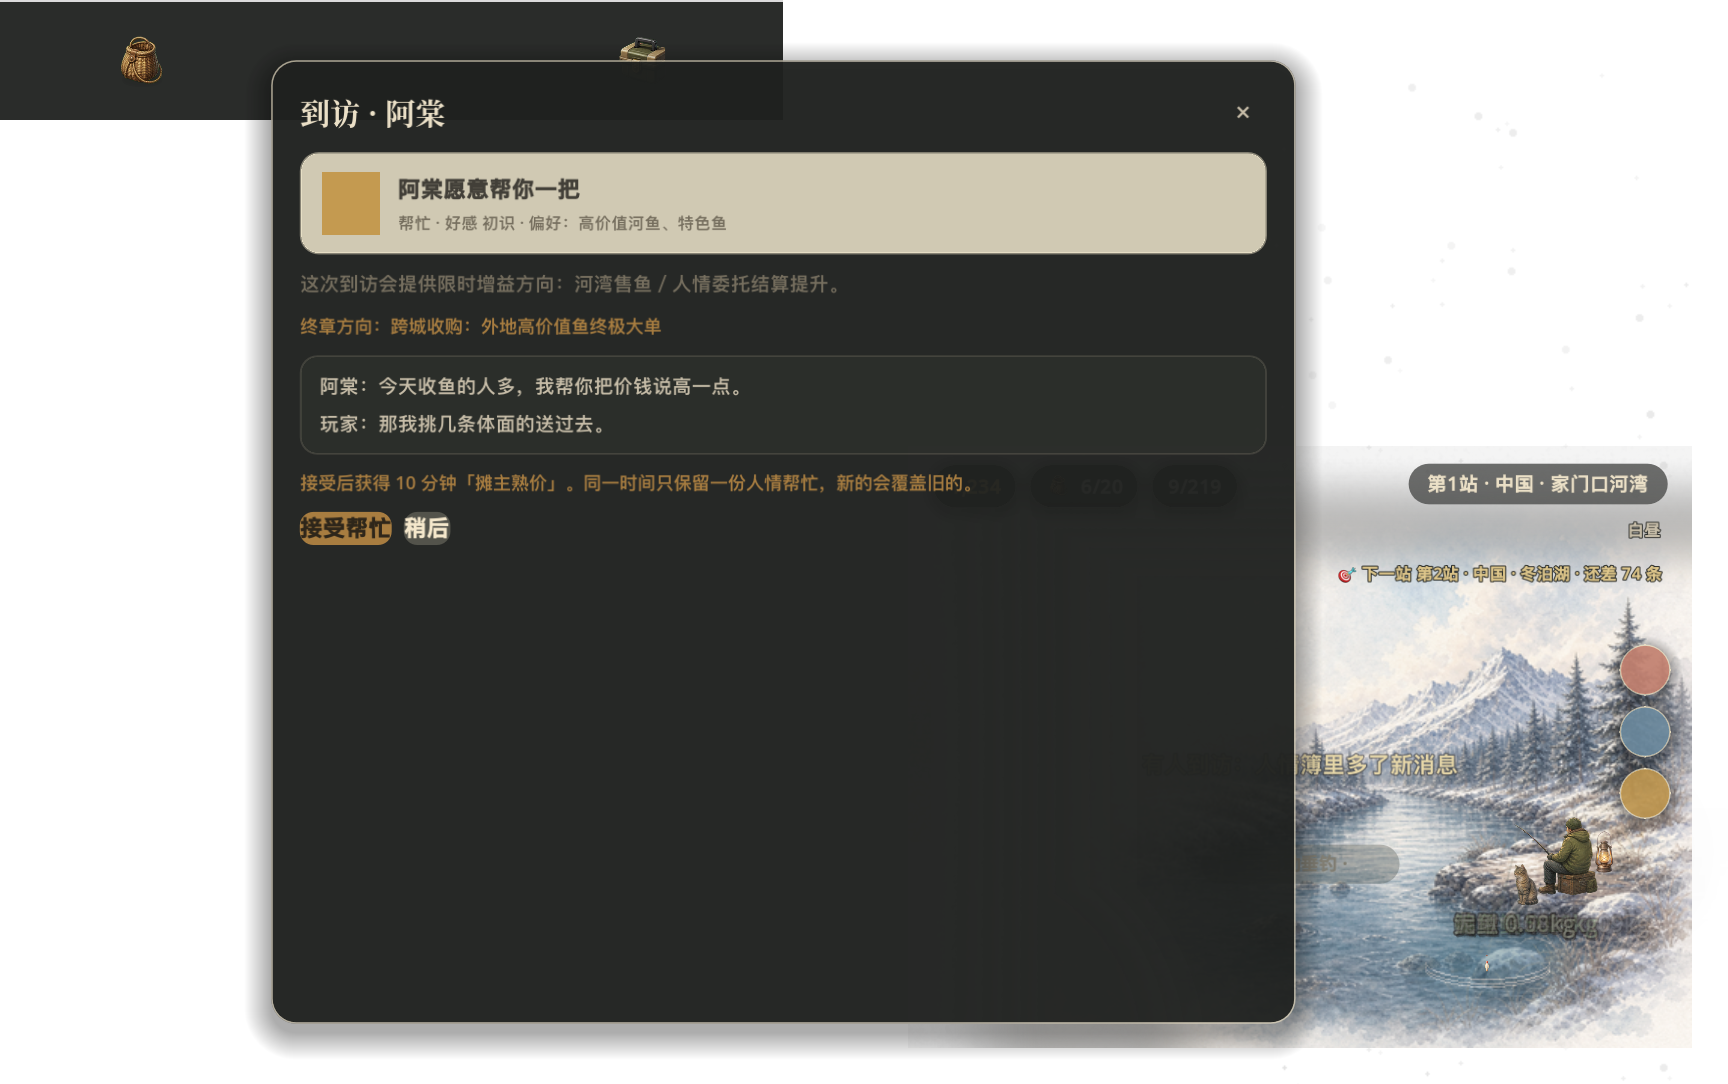
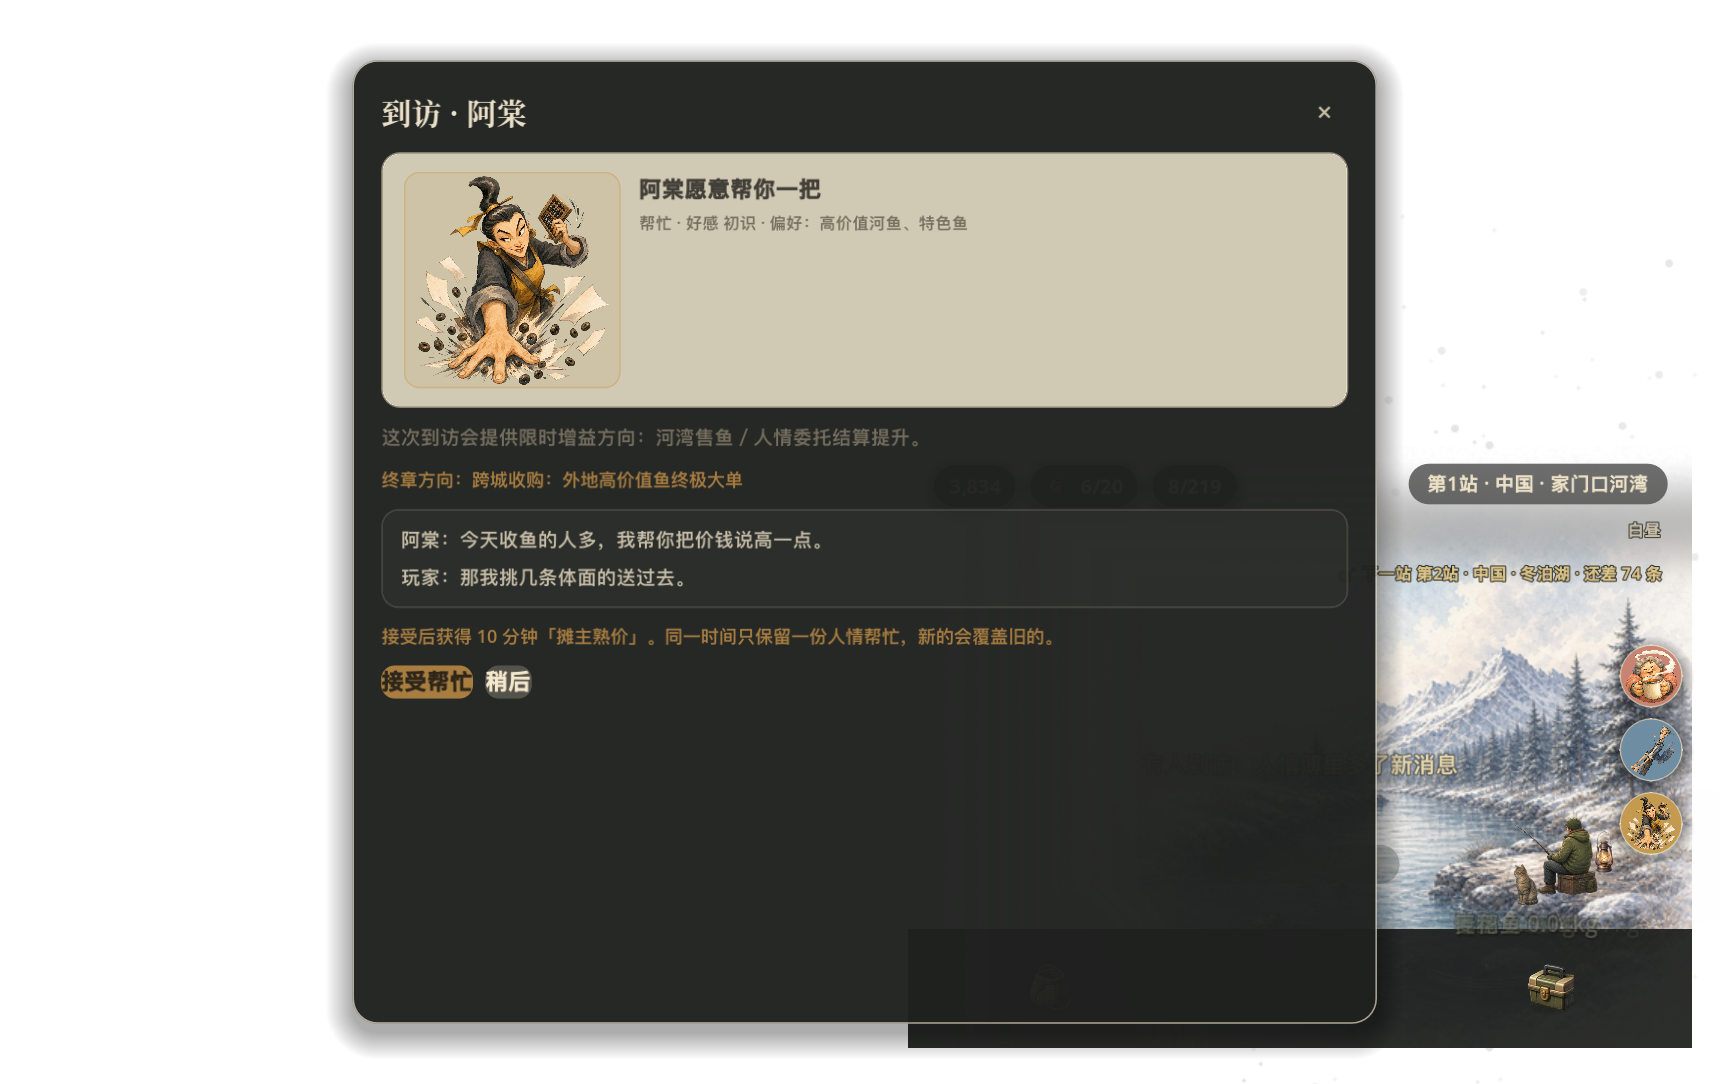
同步河湾人物头像视觉与文档

Changed region(s): [[0.0, 0.0, 1.0, 0.9742], [0.9062, 0.5784, 1.0, 0.822]]

diff --git a/BACKLOG.md b/BACKLOG.md
@@ -31,6 +31,7 @@
 
 ## ✅ 决策日志(关键拍板,最新在上 —— 防止反复纠结已否决的方向)
 
+- **2026-07-20** 河湾五位 NPC 水彩人物图正式接入运行时，采用 Owner 确认的分层方案 B：右侧低频到访入口使用带主题色描边的圆形头像，人情簿使用动作缩略图，单人到访面板使用完整透明立绘；缺图继续回退主题色占位。**为什么**：小尺寸入口需要快速识别，阅读与交付面板又要保留五人各自的动作轮廓；单一圆形裁切会浪费立绘表现力，所有位置展示全图则会挤压文字与鱼篓操作区。
 - **2026-07-16** 修鱼篓卖鱼两处问题(分支 `fix/sell-sort-bugs`):①**「按品阶批量卖出」**(卖掉 XX 及以下一键清篓)交付时按钮计数没排除订单鱼、且 `order_matches` 不检查 `done`——重量类订单(收 ≥Wkg)一旦所有鱼都达标,批量卖出显示有货实则 0 条可卖,且交付订单后整篓鱼仍被永久拦截;改为 `done` 后 `order_matches` 返回 false 释放全部鱼。②**鱼卡外框改为始终按品阶着色**:原逻辑"有变体就用变体色",导致带斑斓变体的施氏鲟(tier4 橙)画成蓝边,品阶排序后看着像混在橙鱼里错位;变体身份已由 ◆ 前缀 + 名字品阶色表达,边框统一走品阶色后排序视觉成组。自测:真实存档经 headless Godot 验证品阶/价值排序单调、done 后 45/45 鱼解除拦截、可卖数恢复;validate_game.gd 0 失败。**为什么**:前者是会让玩家"卖不掉鱼"的严重交互 BUG(订单完成态反而锁死整篓),后者是数据正确但边框编码维度错配造成的视觉误判,两者都不该留到发布。
 - **2026-07-16** Owner 确认河湾好感逐级事件规则：普通委托只发金币，只有成功送礼提升好感；初识到旧交每级优先投放一条一次性人物事件，跨级后从最低未读事件依次补看；初识池只有闲谈，点头之交开放委托，靠得住开放招牌 Buff，至交优先一次性终章；人物事件读完后才进入当前等级允许的轮换池。v24 为每位 NPC 保存 `story_seen`，共接入 30 条阶段事件及测试工具。**为什么**：把人物关系推进从经济任务中剥离，并确保挂机或调试造成的跨级不会跳过人物成长内容。
 - **2026-07-16** Owner 确认河湾五条终章均为**一次性**，不解锁重复委托：林阿姨与阿棠是收购类，核验成功后消耗鱼；周叔、小满、马会长是纪录类，只登记且保留渔获，锁定鱼也可登记。终章分别永久写入家书纪念、老钓友船牌、跨城收购名片、高级标记许可、旅途联系人名册；船牌与标记许可现阶段只保存／展示，实际作用留待三钓点联动接入。存档升至 v23，v21/v22 已完成终章的档自动补发标记。**为什么**：终章应是唯一的人物关系收束，避免变成重复任务机；长期价值通过永久关系凭证和后续钓点联动兑现。
@@ -38,7 +39,7 @@
 - **2026-07-13** Windows 上“点收下/卖鱼后关闭/普通点击/最小化恢复后窗口打不开”统一定性为**透明覆盖窗 Region 生命周期故障**，不是各按钮分别触发最小化：`canvas_items + expand` 后挂件坐标仍是逻辑画布单位，却被直接传给 Win32 `SetWindowRgn` 的原生客户区像素；Windows 同时不绘制 Region 外内容，故进程仍在但画面被完整裁空。修复拍板：所有 Region 写入收敛到主节点单一出口，经 `get_viewport().get_final_transform()` 转换、向外取整并留 4px 恢复抖动余量；面板态清除自定义 Region；首次弹窗前等待窗口初始化；焦点恢复/尺寸/DPI 变化后延迟重算；退化 transform/零面积多边形拒绝写入并重试；背景拖动设 6px 物理阈值且面板打开时禁拖。卖鱼跨累计 300 金币时另有旧导航 hover lambda 捕获已释放节点，也一并改为带有效性检查的回调并重排新导航。**为什么**：这些触发器都汇入同一个错误 Region 出口，逐按钮打补丁无法覆盖缩放、显示器和系统恢复路径；窗口状态机 + 原生几何回归才是一劳永逸的边界。
 - **2026-07-10** huchao 提出并确认**前三钓点联动系统设计**（详见 `docs/three-spot-linkage-design-huchao.md`）：河湾人情簿、冬泊湖水文台、雪线溪谷标记放流簿各自先提供本地效率收益，Lv4 跨图协作、Lv5 分别给经济与目标组织 / 稀有时机 / 巨物纪录三个全局维度。**为什么**：让旧钓点拥有独立且可感知的回访价值，同时用软联动而非硬门槛串起背包客旅程；设计尚未排期实现。
 - **2026-07-09** 底部系统改为**阶梯式揭露**:新进度开局只显示设置;累计 3 条鱼开放鱼篓并提示可贩卖;累计卖鱼 300 金币开放装备;装备/背包等升级消费累计 10K 开放任务;默认钓点图鉴完成一半开放图鉴;满足第二钓点解锁条件开放地图/钓点;钓到极品鱼开放鱼缸。测试模式新增"功能开放"折叠面板,可直接开关各系统入口;存档 v20 记录开放状态与装备消费累计。**为什么**:降低开局信息噪声,让每个系统在玩家刚产生对应需求时出现,同时保留测试态快速验证路径。
-- **2026-07-10** 河湾人情簿先落**基础骨架 + 到访送礼 + 接受 Buff + 委托交付 + 终章大单 + 调试面板**：五位 NPC 的独立七级好感、v21 存档、人情底栏入口与总览、挂机到访队列、右侧最多 5 个纯色圆入口、单条到访面板、面板内鱼篓送礼、偏好鱼加好感、不合口味拒收且错失本次机会、10 分钟单槽限时 Buff 领取与生效、偏好鱼委托交付与金币/好感奖励、至交后的跨地点终章大单与完成标记；测试模式左侧新增“人情模块”按钮，可召唤指定 NPC/事件、打开到访或送礼面板、mock 送礼/终章鱼、调整好感和终章状态。**为什么**：先稳定数据、迁移、低频挂机入口、送礼代价、临时收益、普通奖励和终章验证工具，后续再扩写文本、美术头像和跨图长期收益。
+- **2026-07-10** 河湾人情簿先落**基础骨架 + 到访送礼 + 接受 Buff + 委托交付 + 终章大单 + 调试面板**：五位 NPC 的独立七级好感、v21 存档、人情底栏入口与总览、挂机到访队列、右侧最多 5 个到访入口（当时为纯色占位，2026-07-20 已换专属头像）、单条到访面板、面板内鱼篓送礼、偏好鱼加好感、不合口味拒收且错失本次机会、10 分钟单槽限时 Buff 领取与生效、偏好鱼委托交付与金币/好感奖励、至交后的跨地点终章大单与完成标记；测试模式左侧新增“人情模块”按钮，可召唤指定 NPC/事件、打开到访或送礼面板、mock 送礼/终章鱼、调整好感和终章状态。**为什么**：先稳定数据、迁移、低频挂机入口、送礼代价、临时收益、普通奖励和终章验证工具，后续再扩写文本、美术表现和跨图长期收益。
 - **2026-07-09** 装备/金币改为**浮点大数 + 西方短单位**:金币、累计收入、装备成本、鱼竿成本、测试加钱等经济量不再受 64 位整数约束,统一用 double 浮点大数并在极端值钳制到 `1e300`;UI 不再用中文"万/亿",10K 起按 `K/M/B/T/Qa/Qi/Sx/Sp...` 3 位有效数字显示,单位表用尽后才退科学计数。**为什么**:装备系统支持长期升级后数值跨度会快速放大,裸整数会撑爆按钮/HUD,整数溢出会让升级价格或金币变成负数;idle 游戏玩家也更熟悉 K/M/B/T/Qa 这套递进。
 - **2026-07-09** 属性装备价格改为**顺序驱动**:装备定义只保留名称/图标/属性,解锁顺序由独立数组控制;后一件解锁价就是该装备 Lv.1 购买价,先取前一件约 Lv.22 的单次购买价并规整(如鱼线 Lv.22 单次约 2,701→绕线轮 Lv.1 价 2,500),之后 Lv.2 起按自身指数曲线递增;属性效果仍按等级线性增长,Lv.2≈Lv.1 两倍。**为什么**:把"这是什么装备"和"它在第几阶段出现、该多贵"解耦,后续调换鱼线/绕线轮/浮漂等顺序时不再改硬编码 match,数值节奏也能跟着顺序稳定迁移。
 - **2026-07-08** 用户问"有没有免费音乐版权库"→ 全面补齐**音频反馈层**(分支 `feat/audio-feedback`)。审计发现音效系统本已成熟(9 SFX + 8 层生态×昼夜环境床),但**零 BGM**、上鱼音只有 2 档、9 个高光事件全哑。落地:①**上鱼四档阶梯** common/good/rare/epic(此前 ×12 的七彩和 ★★ 普通鱼同一个音),门槛写进 `_catch_sfx()`,单调性由生成器 `verify_ladder()` + `validate_game.gd::_check_audio()` 双重断言;②**9 个哑点接线**:成就(42 项此前全无声)/图鉴首捕/破纪录/巨物赛夺金/专注奖励/宠物偷鱼/钓点解锁/7 种随机事件/咬钩→上鱼 0.9s 张力循环;③**BGM 系统**:昼夜两曲 4s 交叉淡入淡出 + 独立开关与音量。**为什么**:用户此前说游戏"不好玩"——219 鱼 × 4 变体的收集轴在听觉上只有两档,最强正反馈(七彩/传说)和日常事件无差别,这是可听见的"无感"。**许可口径:全部 CC0/公共领域,零署名负担**(拒了音色更好的 CC-BY 源若干),理由是不让 Credits 界面挡在发布路径上;Pixabay 自有许可也没用上。**为什么不叠更响**:"史诗"做成更长(1.80s vs 0.44s)+ 有旋律,而非更吵——峰值仍守 0.32,起音靠"大鱼翻腾"实录托底。8 个里程碑音为**程序合成**(Karplus-Strong),既零版权也让"安静克制"可调参;亮度(频谱质心)设硬预算,超标即构建失败。

diff --git a/docs/three-spot-linkage-design-huchao.md b/docs/three-spot-linkage-design-huchao.md
@@ -32,7 +32,7 @@
 
 #### 到访事件与挂机节奏
 
-- 右侧 HUD 预留最多 **5 个到访位**。每位 NPC 对应一个纯色圆形头像（正式立绘以后再替换）；有来意时占用自己的一个位置，点击后才打开该次到访的对话、剧情或处理面板。
+- 右侧 HUD 预留最多 **5 个到访位**。每位 NPC 使用带主题色描边的圆形专属头像；有来意时占用自己的一个位置，点击后才打开该次到访的对话、剧情或处理面板。人情簿使用动作缩略图，单人到访面板使用完整透明立绘，缺图时回退人物主题色占位。
 - 到访是挂机期间自然产生的低频事件；同一 NPC 不会重复占位。若该 NPC 已在队列里，新的来意只更新该头像的状态（例如由“想聊聊”变为“有礼物”或“委托完成”），不挤掉其他人。
 - 底部菜单增加“人情”入口（首版可用空白 icon）。人情簿用于总览五人的好感、偏好、已知提示、当前委托与终章进度；**送礼按钮只出现在该 NPC 正在到访的面板中**，平时在鱼篓和人情簿均不可送礼。
 - 每位 NPC 的到访／礼物冷却暂定为 **3 小时**。离线超过冷却后，每人至多准备一轮未领取的礼物或来意，不多层累积；一次较长挂机回来可以看到五人各自的一轮反馈，但不会形成待办债务。
@@ -142,8 +142,8 @@
 
 - 本设计是未来地图系统提案，不改变当前路线图的“比赛材料与演示观感”焦点。
 - 雪线溪谷当前仍缺正式背景图；在该图视觉资产补齐前，不应将它作为玩家必须回访的强引导。
-- 已落地的第一阶段：v21 存档保存五位 NPC 的独立好感、到访队列、下一次到访时间、排程序号、当前人情 Buff 与终章完成状态；底部菜单有“人情”入口；右侧 HUD 显示最多 5 个纯色圆到访入口；点击可打开单条到访面板，承载提示、委托、Buff 或终章说明；到访面板内展示鱼篓，偏好鱼正常高亮，不合口味鱼灰化但仍可点击并触发拒收；Buff 到访可通过几句对话领取 10 分钟单槽限时增益；普通委托可交付一条偏好鱼，成功后消耗鱼并只发金币，不合格只拒收且委托保留；只有成功送礼提升好感；至交后优先出现跨地点终章大单。
+- 已落地的第一阶段：v21 存档保存五位 NPC 的独立好感、到访队列、下一次到访时间、排程序号、当前人情 Buff 与终章完成状态；底部菜单有“人情”入口；右侧 HUD 显示最多 5 个专属圆形头像入口，人情簿与到访面板分别显示人物缩略图和透明立绘；点击可打开单条到访面板，承载提示、委托、Buff 或终章说明；到访面板内展示鱼篓，偏好鱼正常高亮，不合口味鱼灰化但仍可点击并触发拒收；Buff 到访可通过几句对话领取 10 分钟单槽限时增益；普通委托可交付一条偏好鱼，成功后消耗鱼并只发金币，不合格只拒收且委托保留；只有成功送礼提升好感；至交后优先出现跨地点终章大单。
 - 测试模式已补“人情模块”调试面板：可召唤指定 NPC 的近况 / 闲谈 / 委托 / Buff / 终章事件，调整好感与人物事件已读进度，并 mock 偏好鱼与终章鱼。无头回归覆盖逐级事件池、跨级补读、送礼、Buff、委托与终章。
 - v23 补齐一次性终章的永久奖励：林阿姨／阿棠为收购类并消耗鱼，周叔／小满／马会长为纪录类且保留鱼；完成后分别保存家书纪念、老钓友船牌、跨城收购名片、高级标记许可、旅途联系人名册。船牌与许可的玩法效果留待水文台／放流簿阶段接入。
 - v24 接入初识到旧交共 30 条一次性人物事件；每人保存最高连续已读等级，跨级后仍按顺序补看。事件读完后，初识只轮换闲谈、点头之交开放委托、靠得住开放 Buff；至交终章优先于未读近况。
-- 下一阶段仍需单独设计和接入：NPC 文本扩写、正式头像/立绘，以及普通人情委托与每日订单在 UI 和数值上的复用边界。
+- 下一阶段仍需单独设计和接入：NPC 文本扩写，以及普通人情委托与每日订单在 UI 和数值上的复用边界。

diff --git a/ROADMAP.md b/ROADMAP.md
@@ -52,7 +52,7 @@
 - [x] **角色属性二级映射接入结算**(旧装备仍是主轴;属性软上限修正周期/品阶/星级/变体/双钩/体型,开发面板同步展示最终指标)✅ 2026-07-08
 - [x] **装备/金币大数化**(经济量改 double 浮点大数,极端值钳制到 `1e300`;装备页/HUD 改 `K/M/B/T/Qa/Qi...` 短格式,不再用中文万/亿)✅ 2026-07-09
 - [x] **底部系统渐进开放**(开局只显示设置;3 条鱼开放鱼篓;卖鱼 300 开装备;装备消费 10K 开任务;默认钓点半图鉴开图鉴;第二钓点条件开地图;极品鱼开鱼缸;测试台可手动开关功能;存档 **v20**)✅ 2026-07-09
-- [x] **河湾人情簿（分阶段首版）**：五位 NPC 配置、独立七级好感存档、人情入口、总览、挂机到访队列、右侧纯色圆入口、到访送礼、10 分钟单槽 Buff、偏好鱼委托、跨地点终章大单与调试面板均已接入（v21）；v22 改为每位 NPC 独立 3 小时排程；v23 补齐五条一次性终章永久标记；v24 加入初识到旧交共 30 条一次性人物事件、跨级顺序补读与分级事件池，普通委托改为只发金币、仅成功送礼提升好感；后续继续扩写人物文本／头像与三钓点联动效果。
+- [x] **河湾人情簿（分阶段首版）**：五位 NPC 配置、独立七级好感存档、人情入口、总览、挂机到访队列、专属水彩头像／人情簿缩略图／到访透明立绘、到访送礼、10 分钟单槽 Buff、偏好鱼委托、跨地点终章大单与调试面板均已接入（v21）；v22 改为每位 NPC 独立 3 小时排程；v23 补齐五条一次性终章永久标记；v24 加入初识到旧交共 30 条一次性人物事件、跨级顺序补读与分级事件池，普通委托改为只发金币、仅成功送礼提升好感；后续继续扩写人物文本与三钓点联动效果。
 - [ ] **219 鱼美术补齐**(现 99 条有专属图标 → 缺 120;缺图自动回退品阶通用图标不崩)
 - [ ] **7 个新钓点背景图**(数据已配,缺干净底图;**其中雪线溪谷 mountain_stream / 下山进城 urban_pond 在退款窗口内可达,列入上架 DoD 必须有图**)
 - [x] **README 文案同步真实数字**(鱼 106→219、存档 v11→v12;钓点守 3 不虚报)✅ 2026-06-23

diff --git a/README.md b/README.md
@@ -89,6 +89,8 @@ godot --headless -s tools/balance_probe.gd
 左侧开发入口可直接打开属性面板、功能管理与人情模块；属性面板可编辑金币（翻倍/减半）、装备来源层与宠物状态；测试台可强制昼夜时段、钓鱼提速（×3/×10/即时）、改金币、+1/拉满装备与背包、绕线轮升降/设级、给指定鱼（鱼种×星级×变体）、
 样本包/清空鱼篓、解锁全部钓点/点亮全图鉴、召唤鱼贩/重置订单/充能专注、立即触发随机事件；人情模块可召唤指定 NPC 的闲谈/委托/Buff/终章事件、打开人情簿或到访面板、mock 偏好鱼与终章鱼、调整好感等级、重置或完成终章。
 
+河湾五位 NPC 已使用专属水彩人物图：右侧到访栏显示主题色圆形头像，人情簿显示动作缩略图，到访面板显示完整透明立绘；资源缺失时安全回退到人物主题色占位，不影响交互。
+
 **仅本会话生效、不写档**：进入即冻结磁盘存档，退出（切回游玩模式）从磁盘重载正式档、丢弃全部测试改动；
 默认重启回到正式档；如需启动即进入测试，可在 `main.tscn` 的 `Main` 节点 Inspector 勾选 `test_mode`。正式存档永不被测试数据污染，HUD 右上常驻「🧪测试」角标提示当前在测试模式。
 
